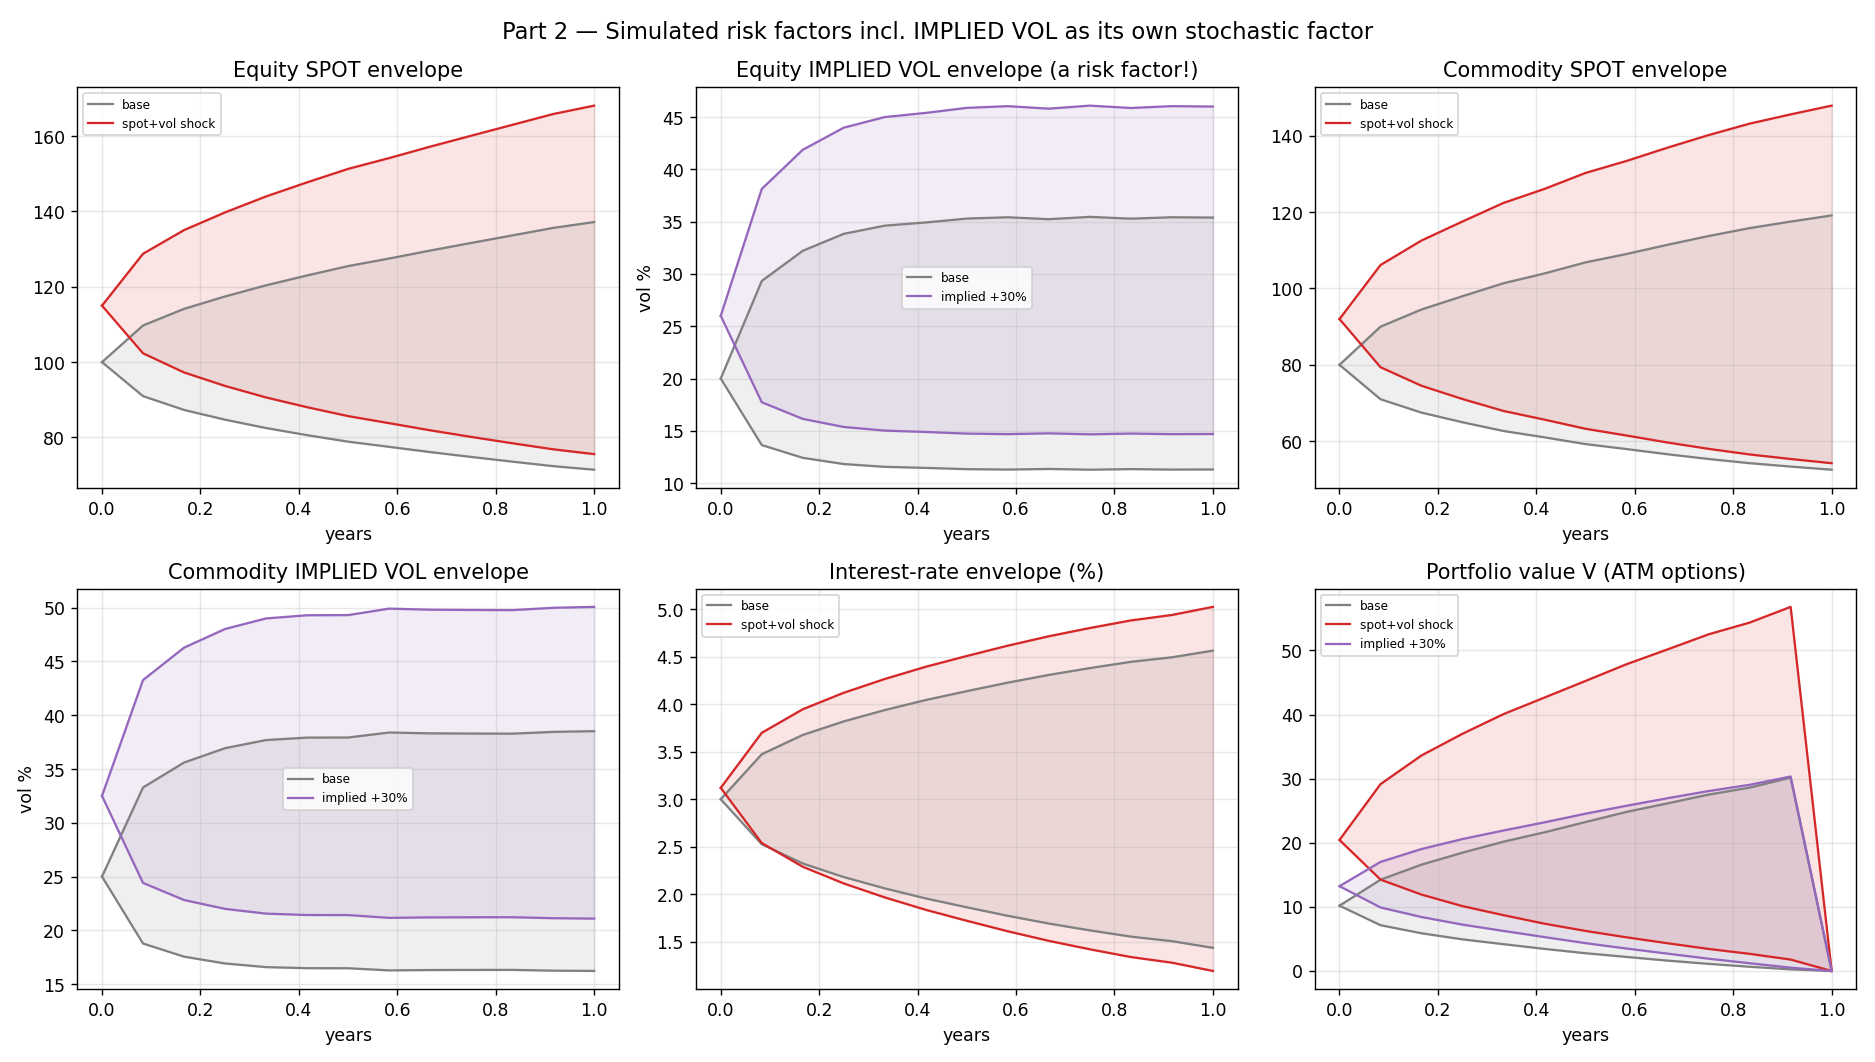
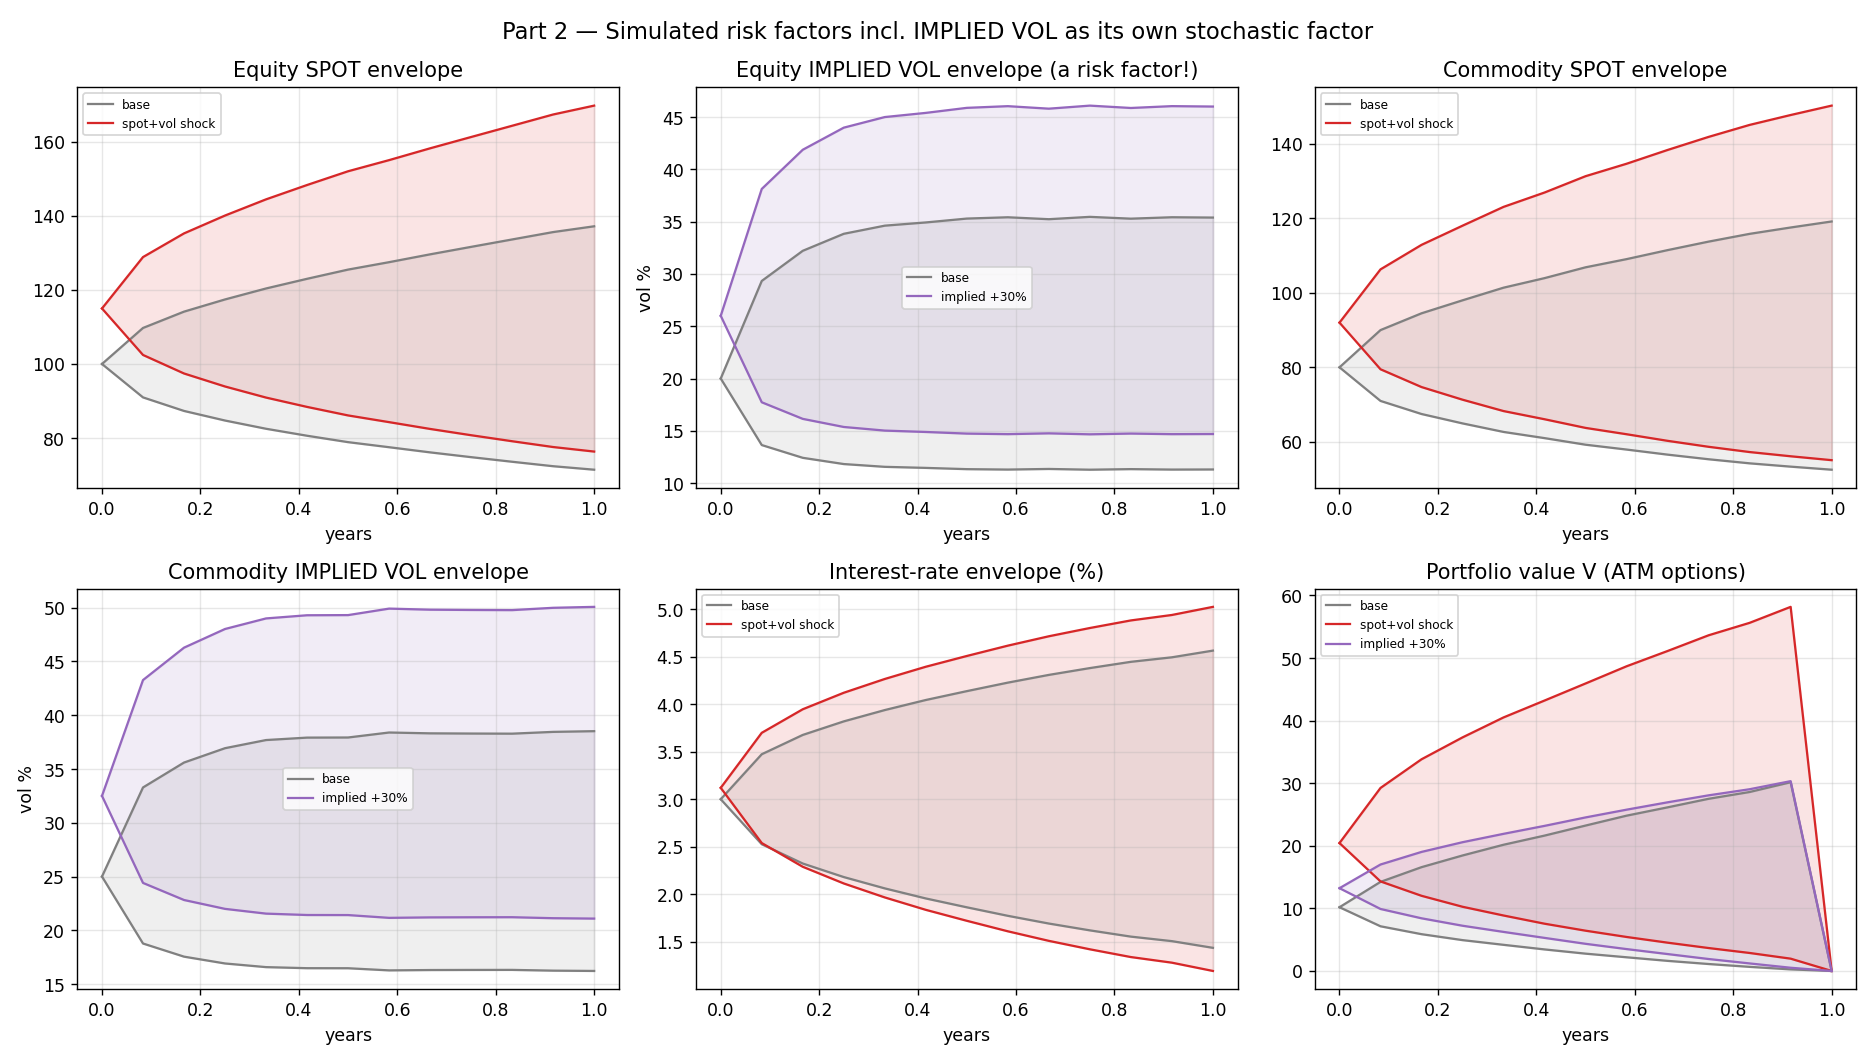
Fix: keep level shock identical when simulation vol is shocked
The GBM Itô convexity used the *shocked* vol, so methodology A (vol shocked)
dragged the median/level below methodology B. Compute the drift convexity from
the BASE vol so a realized-vol shock changes only the envelope WIDTH, not the
central level — making the level shock identical under A and B (the OU rate was
already correct). Also draw median lines in the envelope figure to make this
explicit.

diff --git a/experiments/part1_linear.py b/experiments/part1_linear.py
@@ -82,22 +82,25 @@ def fig_envelopes():
                           (A_p[nm], 'C3', '(A) level + vol')]:
             lo, md, hi = env(P)
             ax.fill_between(TIMES, lo, hi, color=c, alpha=0.12)
-            ax.plot(TIMES, hi, color=c, lw=1.2); ax.plot(TIMES, lo, color=c, lw=1.2, label=lab)
-        ax.set(title=f'{title} — 5–95% path envelope', xlabel='years'); ax.grid(alpha=.3)
+            ax.plot(TIMES, hi, color=c, lw=1.0); ax.plot(TIMES, lo, color=c, lw=1.0)
+            ax.plot(TIMES, md, color=c, lw=1.8, label=f'{lab} (median)')   # median = the LEVEL
+        ax.set(title=f'{title} — 5–95% envelope + median', xlabel='years'); ax.grid(alpha=.3)
         ax.legend(fontsize=7)
     # portfolio value envelope
     ax = axs.ravel()[4]
     for V, c, lab in [(base_V, 'grey', 'base'), (B_V, 'C0', '(B) level only'), (A_V, 'C3', '(A) level+vol')]:
         lo, md, hi = env(V)
         ax.fill_between(TIMES, lo, hi, color=c, alpha=0.12)
-        ax.plot(TIMES, hi, color=c, lw=1.2); ax.plot(TIMES, lo, color=c, lw=1.2, label=lab)
+        ax.plot(TIMES, hi, color=c, lw=1.0); ax.plot(TIMES, lo, color=c, lw=1.0)
+        ax.plot(TIMES, md, color=c, lw=1.8, label=f'{lab} (median)')
     ax.set(title='Portfolio value V (deep-ITM book)', xlabel='years'); ax.grid(alpha=.3); ax.legend(fontsize=7)
     axs.ravel()[5].axis('off')
     axs.ravel()[5].text(0.02, 0.5,
-        "Shock s = +0.18.\n\n(B) shifts each envelope's LEVEL\n     (width unchanged).\n\n"
-        "(A) shifts the level AND widens\n     the envelope (realized-vol up).\n\n"
-        "CE and MTM (t=0 marks) are identical\nunder A and B — they are blind to the\n"
-        "vol/width change. Only EEPE sees it.", fontsize=10, va='center')
+        "Shock s = +0.18.\n\nThe LEVEL shock is IDENTICAL under A\nand B: the median lines (bold) of A (red)\n"
+        "and B (blue) COINCIDE.\n\n(B) leaves the envelope width unchanged.\n\n"
+        "(A) keeps the same level but WIDENS\n     the envelope (realized-vol up).\n\n"
+        "CE and MTM (t=0 marks) are identical\nunder A and B — blind to the width\n"
+        "change. Only EEPE sees it.", fontsize=10, va='center')
     fig.suptitle('Part 1 — How the simulated risk factors change after a shock (A: vol shocked vs B: not)',
                  fontsize=13)
     fig.tight_layout(); fig.savefig(os.path.join(FIG, "part1_sim_envelopes.png"), dpi=125)

diff --git a/ccrlib/core.py b/ccrlib/core.py
@@ -162,8 +162,11 @@ class Simulator:
                 i = self.idx[a.name]
                 Z = self.Zs[:, k - 1, i]
                 if a.process == 'gbm':
-                    sig = a.vol * sc.vol_mult
-                    drift = (R_DISC - a.q - 0.5 * sig * sig) * self.dt
+                    sig = a.vol * sc.vol_mult                       # diffusion (width) scales with the vol shock
+                    # Convexity uses the BASE vol so that shocking the simulation volatility changes only the
+                    # dispersion (envelope width), NOT the central/median path. This keeps the LEVEL shock
+                    # identical between methodology A (vol shocked) and B (vol fixed) -- they differ only in width.
+                    drift = (R_DISC - a.q - 0.5 * a.vol * a.vol) * self.dt
                     lvl[a.name] = lvl[a.name] * np.exp(drift + sig * sdt * Z)
                 else:  # ou (exact)
                     sig = a.vol * sc.vol_mult
